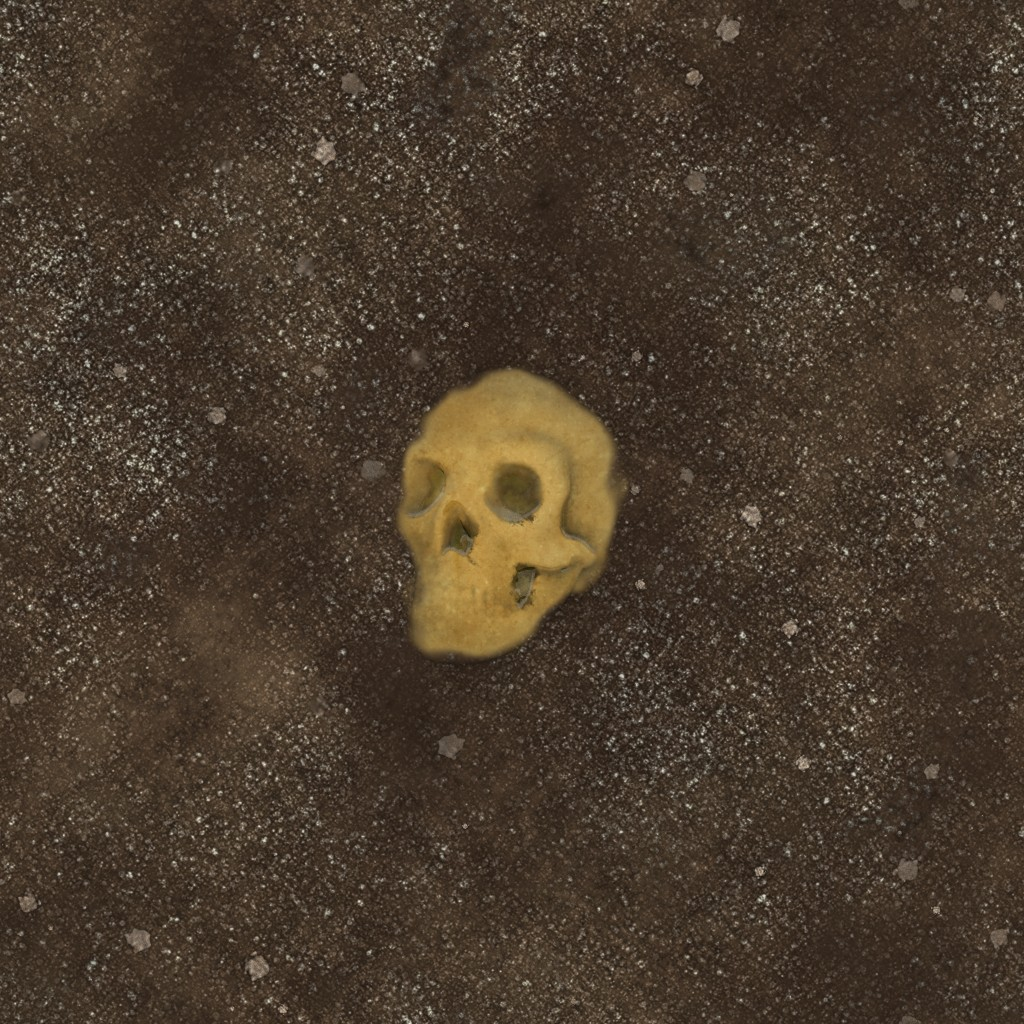
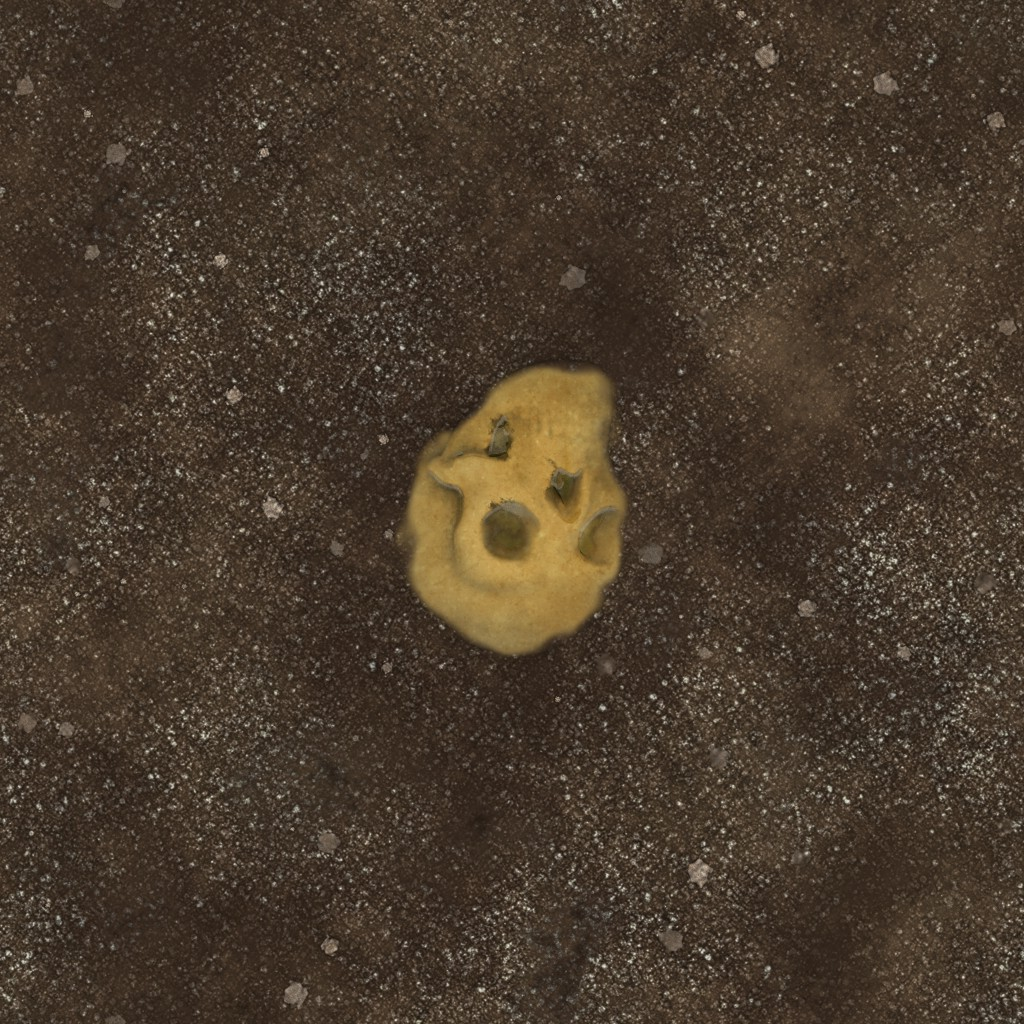
Reflexion + data

diff --git a/src/scene_collection.cc b/src/scene_collection.cc
@@ -10,6 +10,7 @@ namespace environment
         s.add_light(std::make_shared<Point_Light>(
             structures::Vec3({ { -3, -3, 4 } }), 3.));
 
+        /*
         s.add_object(std::make_shared<Sphere>(
             structures::Vec3({ { -2, -3, -1 } }),
             std::make_shared<Classic_Material>(std::make_shared<Uniform_Metal>(
@@ -25,12 +26,10 @@ namespace environment
             std::make_shared<Classic_Material>(std::make_shared<Uniform_Smooth>(
                 display::Colour(1., 1., 0.), 0.5, 1., 2.)),
             2.));
-        /*
         s.add_object(std::make_shared<Sphere>(
             structures::Vec3({ { 0, -1, -101.5 } }),
             new Uniform_Matte(display::Colour(0, 0.33,
         0.1), 1., 1., 1.), 100.));
-        */
         s.add_object(std::make_shared<Plane>(
             structures::Vec3({ { 0, 0, -1 } }),
             std::make_shared<Classic_Material>(std::make_shared<Uniform_Matte>(
@@ -43,6 +42,7 @@ namespace environment
             structures::Vec3({ { -2.5, -4.5, 1 } }),
             structures::Vec3({ { -2, -5, -1 } }),
             structures::Vec3({ { -4, -4, -1 } })));
+        */
 
         return s;
     }
@@ -75,7 +75,7 @@ namespace environment
     Scene &scene_smooth_triangles(Scene &s)
     {
         auto txt = std::make_shared<Uniform_Smooth>(
-            display::Colour(0.5, 0.1, 0.5), 1., 1., 1.);
+            display::Colour(0.5, 0.1, 0.5), 1., 1., 1., 1);
         auto n_m = std::make_shared<Normal_Map>(
             "../data/Paper_Wrinkled_001_normal.jpg");
         auto mat = std::make_shared<Classic_Material>(txt, n_m);
@@ -102,17 +102,17 @@ namespace environment
         s.add_object(std::make_shared<Sphere>(
             structures::Vec3(),
             std::make_shared<Classic_Material>(std::make_shared<Uniform_Smooth>(
-                display::Colour(0.2, 0.3, 0.7), 1., 0.5, 0.5)),
+                display::Colour(0.2, 0.3, 0.7), 1., 0.5, 0.5, 1)),
             1.));
         s.add_object(std::make_shared<Triangle>(
             std::make_shared<Classic_Material>(std::make_shared<Uniform_Metal>(
-                display::Colour(1., 1., 1.), 0.5, 0.1, 0.1)),
+                display::Colour(1., 1., 1.), 0.5, 0.1, 0.1, 1)),
             structures::Vec3({ { -1, -2, -0.5 } }),
             structures::Vec3({ { 1, -2, -0.5 } }),
             structures::Vec3({ { 0, -2, 1.5 } })));
         s.add_object(std::make_shared<Triangle>(
             std::make_shared<Classic_Material>(std::make_shared<Uniform_Metal>(
-                display::Colour(0.5, 1., 1.), 0.5, 0.1, 0.1)),
+                display::Colour(0.5, 1., 1.), 0.5, 0.1, 0.1, 1)),
             structures::Vec3({ { -2, 0.5, 3.5 } }),
             structures::Vec3({ { 2, 0.5, 3.5 } }),
             structures::Vec3({ { 0, 2, -1.5 } })));
@@ -128,12 +128,12 @@ namespace environment
         s.add_object(std::make_shared<Sphere>(
             structures::Vec3({ { 1.5, -2, 0 } }),
             std::make_shared<Classic_Material>(std::make_shared<Uniform_Metal>(
-                display::Colour(0.2, 0.3, 0.7), 1., 0.5, 0.5)),
+                display::Colour(0.2, 0.3, 0.7), 1., 0.5, 0.5, 1)),
             1.));
         s.add_object(std::make_shared<Sphere>(
             structures::Vec3({ { -1.5, -2, 0 } }),
             std::make_shared<Classic_Material>(std::make_shared<Uniform_Metal>(
-                display::Colour(0.9, 0.9, 0.8), 1., 0.5, 0.5)),
+                display::Colour(0.9, 0.9, 0.8), 1., 0.5, 0.5, 1)),
             1.));
         s.add_light(std::make_shared<Point_Light>(
             structures::Vec3({ { 0, -1, 3 } }), 1.));
@@ -146,11 +146,11 @@ namespace environment
         s.add_object(std::make_shared<Sphere>(
             structures::Vec3({ { 1.5, -2, 0 } }),
             std::make_shared<Classic_Material>(std::make_shared<Uniform_Metal>(
-                display::Colour(0.2, 0.3, 0.7), 1., 0.5, 0.5)),
+                display::Colour(0.2, 0.3, 0.7), 1., 0.5, 0.5, 1)),
             1.));
         s.add_object(std::make_shared<Triangle>(
             std::make_shared<Classic_Material>(std::make_shared<Uniform_Metal>(
-                display::Colour(0.9, 0.9, 0.8), 0.7, 0.1, 0.1)),
+                display::Colour(0.9, 0.9, 0.8), 0.7, 0.1, 0.1, 1)),
             structures::Vec3({ { -1, 2, -2 } }),
             structures::Vec3({ { -1, -6, -2 } }),
             structures::Vec3({ { -1, -2, 6 } })));
@@ -232,7 +232,7 @@ namespace environment
         s.add_object(std::make_shared<Sphere>(
             structures::Vec3({ 0.5, -2, 2.4 }),
             std::make_shared<Classic_Material>(std::make_shared<Uniform_Metal>(
-                display::Colour(0.5, 0.5, 0.5), 1., 0.01, 0.01)),
+                display::Colour(0.5, 0.5, 0.5), 1., 0.01, 0.01, 1)),
             1.3));
         s.add_light(
             std::make_shared<Point_Light>(structures::Vec3({ 0, -1, 1 }), 1.));
@@ -242,21 +242,62 @@ namespace environment
 
     Scene &scene_relief_sphere_texture_reflect(Scene &s, const maps &m)
     {
+        auto reflexion = 0.1;
+        auto txt = std::make_shared<Image_Texture>(std::get<0>(m), 1., 0.7, 0.7,
+                                                   reflexion);
+        auto n_m = std::make_shared<Normal_Map>(std::get<1>(m));
+        auto h_m =
+            std::make_shared<Image_Texture>(std::get<2>(m), 0, 0, 0, reflexion);
         s.add_object(std::make_shared<Relief_Sphere>(
-            structures::Vec3({ 1.5, -2, 0 }),
-            std::make_shared<Relief_Material>(
-                std::make_shared<Image_Texture>(std::get<0>(m), 1., 0.7, 0.7,
-                                                0),
-                std::make_shared<Normal_Map>(std::get<1>(m)),
-                std::make_shared<Image_Texture>(std::get<2>(m), 0, 0, 0, 0)),
-            1.));
+            structures::Vec3({ -1.1, -2.5, 0 }),
+            std::make_shared<Relief_Material>(txt, n_m, h_m), 0.5));
         s.add_object(std::make_shared<Sphere>(
-            structures::Vec3({ 0.5, -2, 2.4 }),
-            std::make_shared<Classic_Material>(std::make_shared<Uniform_Metal>(
-                display::Colour(0.5, 0.5, 0.5), 1., 0.01, 0.01)),
-            1.3));
-        s.add_light(
-            std::make_shared<Point_Light>(structures::Vec3({ 0, -1, 1 }), 1.));
+            structures::Vec3({ 0, -2.5, 0 }),
+            std::make_shared<Classic_Material>(txt, n_m), 0.5));
+        s.add_object(std::make_shared<Sphere>(
+            structures::Vec3({ 1.1, -2.5, 0 }),
+            std::make_shared<Classic_Material>(txt), 0.5));
+        /*
+        s.add_object(std::make_shared<Sphere>(
+            structures::Vec3({ 0, -1.5, -2 }),
+            std::make_shared<Classic_Material>(std::make_shared<Uniform_Smooth>(
+                display::Colour(0.2, 0.7, 0.5), 1., 1., 1., 0.001)),
+            1.));
+            */
+        s.add_light(std::make_shared<Point_Light>(
+            structures::Vec3({ -0.5, -1, 2. }), 1.));
+
+        return s;
+    }
+
+    Scene &scene_normal(Scene &s, const maps &m)
+    {
+        auto reflexion = 0.001;
+        auto txt = std::make_shared<Image_Texture>(std::get<0>(m), 1., 0.7, 0.7,
+                                                   reflexion);
+        auto n_m = std::make_shared<Normal_Map>(std::get<1>(m));
+        s.add_object(std::make_shared<Sphere>(
+            structures::Vec3({ 0, -1.5, 0 }),
+            std::make_shared<Classic_Material>(txt, n_m), 0.5));
+        s.add_light(std::make_shared<Point_Light>(
+            structures::Vec3({ -0.5, -0.5, 1.5 }), 1.));
+
+        return s;
+    }
+
+    Scene &scene_relief(Scene &s, const maps &m)
+    {
+        auto reflexion = 0.001;
+        auto txt = std::make_shared<Image_Texture>(std::get<0>(m), 1., 0.7, 0.7,
+                                                   reflexion);
+        auto n_m = std::make_shared<Normal_Map>(std::get<1>(m));
+        auto h_m =
+            std::make_shared<Image_Texture>(std::get<2>(m), 0, 0, 0, reflexion);
+        s.add_object(std::make_shared<Relief_Sphere>(
+            structures::Vec3({ 0, -1.5, 0 }),
+            std::make_shared<Relief_Material>(txt, n_m, h_m), 0.5));
+        s.add_light(std::make_shared<Point_Light>(
+            structures::Vec3({ -0.5, -0.5, 1.5 }), 1.));
 
         return s;
     }

diff --git a/src/main.cc b/src/main.cc
@@ -16,15 +16,15 @@ int raytracer()
     auto start = std::chrono::high_resolution_clock::now();
     // Image
     const double aspect_ratio = 16. / 9.;
-    const size_t width = 1920;
+    const size_t width = 3840;
     const size_t height = width / aspect_ratio;
     auto im = display::Image(height, width);
-    constexpr size_t sample_per_pixel = 3;
-    constexpr size_t nb_threads = 6;
+    constexpr size_t sample_per_pixel = 8;
+    constexpr size_t nb_threads = 8;
 
     // Camera
     auto cam_origin = structures::Vec3({ 0, 0, 0 });
-    auto v_fov = 2.;
+    auto v_fov = 1.;
     auto h_fov = aspect_ratio * v_fov;
     auto cam = environment::Camera(
         cam_origin, structures::Vec3({ { 0, 0, 1 } }),
@@ -33,8 +33,7 @@ int raytracer()
 
     // environment::scene_mesh(scene, environment::wood_wall,
     // environment::lion);
-    environment::scene_relief_sphere_texture_reflect(
-        scene, environment::seamless_pebbles);
+    environment::scene_normal(scene, environment::metal_gate);
     auto stop_create = std::chrono::high_resolution_clock::now();
     auto time_create =
         std::chrono::duration_cast<std::chrono::seconds>(stop_create - start);
@@ -56,7 +55,7 @@ int raytracer()
                             / (height - 1),
                         (static_cast<double>(j) + utils::random_double())
                             / (width - 1));
-                    color += scene.cast_ray(ray, 4);
+                    color += scene.cast_ray(ray, 8);
                 }
 
                 im.set_pixel(i, j, color / sample_per_pixel);

diff --git a/src/texture.cc b/src/texture.cc
@@ -2,12 +2,12 @@
 
 namespace environment
 {
-    std::tuple<display::Colour, double, double, double>
+    std::tuple<display::Colour, double, double, double, double>
     Uniform_Texture::get_components(double u, double v) const
     {
         (void)u;
         (void)v;
-        return std::make_tuple<>(c_, kd_, ks_, ns_);
+        return std::make_tuple<>(c_, kd_, ks_, ns_, reflexion_);
     }
 
     structures::Vec3 Uniform_Smooth::reflect(const structures::Vec3 &p,
@@ -41,12 +41,13 @@ namespace environment
         return structures::unit(reflexion_ * (p - n * 2 * p * n));
     }
 
-    std::tuple<display::Colour, double, double, double>
+    std::tuple<display::Colour, double, double, double, double>
     Image_Texture::get_components(double u, double v) const
     {
         size_t i = v * (double)im_.width();
         size_t j = u * (double)im_.height();
-        return std::make_tuple<>(im_.get_pixel(j, i), kd_, ks_, ns_);
+        return std::make_tuple<>(im_.get_pixel(j, i), kd_, ks_, ns_,
+                                 reflexion_);
     }
 
 } // namespace environment

diff --git a/src/object.cc b/src/object.cc
@@ -164,8 +164,8 @@ namespace environment
     Sphere::map_parametrics(const structures::Vec3 &p) const
     {
         auto uv = parametrics(p);
-        return std::make_pair(utils::fmodulo(uv.first / M_PI, 1),
-                              utils::fmodulo(uv.second / (2 * M_PI), 1));
+        return std::make_pair(utils::fmodulo(uv.first / M_PI - 0.1, 1),
+                              utils::fmodulo(uv.second / (2 * M_PI) + 0.25, 1));
     }
 
     structures::Vec3 Sphere::map_normal(const structures::Vec3 &n,

diff --git a/src/scene.cc b/src/scene.cc
@@ -79,7 +79,7 @@ namespace environment
                 * (std::get<1>(i_r.comps) * diff + ambiant_light_)
             + display::Colour(1., 1., 1.) * std::get<2>(i_r.comps) * spec;
         if (i_r.reflected * i_r.normal > 0)
-            res += std::get<0>(i_r.comps)
+            res += std::get<0>(i_r.comps) * std::get<4>(i_r.comps)
                 * cast_ray(Ray(intersection_point + i_r.reflected * 0.05,
                                i_r.reflected),
                            depth - 1);

diff --git a/src/material.cc b/src/material.cc
@@ -9,7 +9,7 @@ namespace environment
     {
         return txt_->reflect(p, n);
     }
-    std::tuple<display::Colour, double, double, double>
+    std::tuple<display::Colour, double, double, double, double>
     Material::get_components(double u, double v) const
     {
         return txt_->get_components(u, v);
